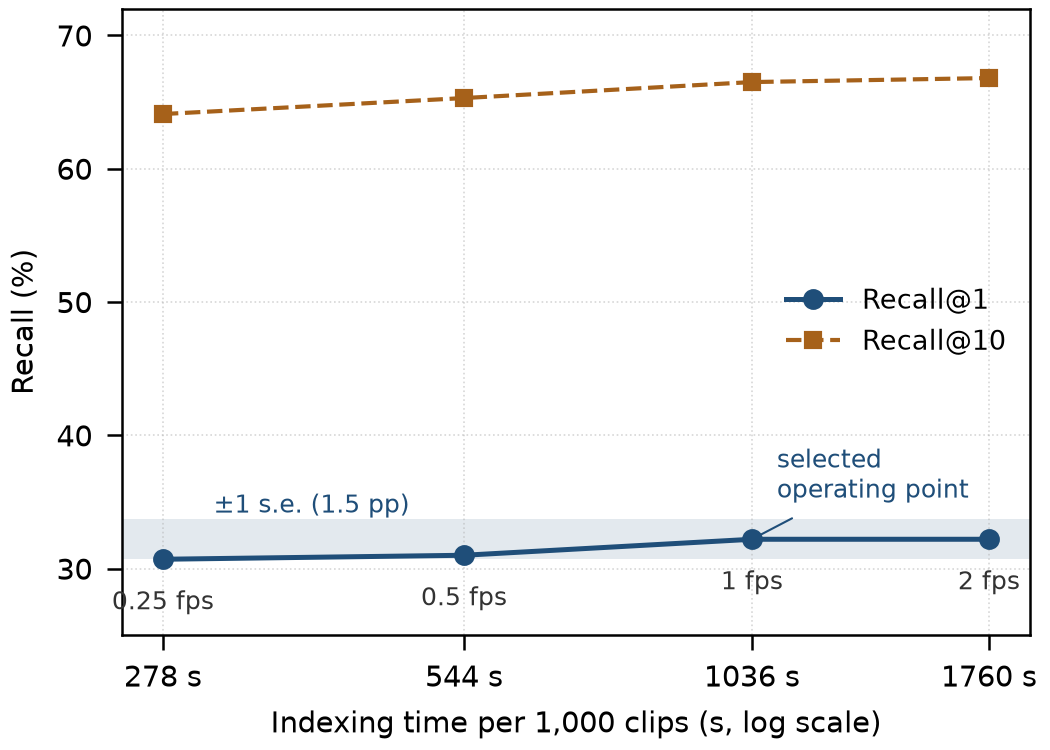
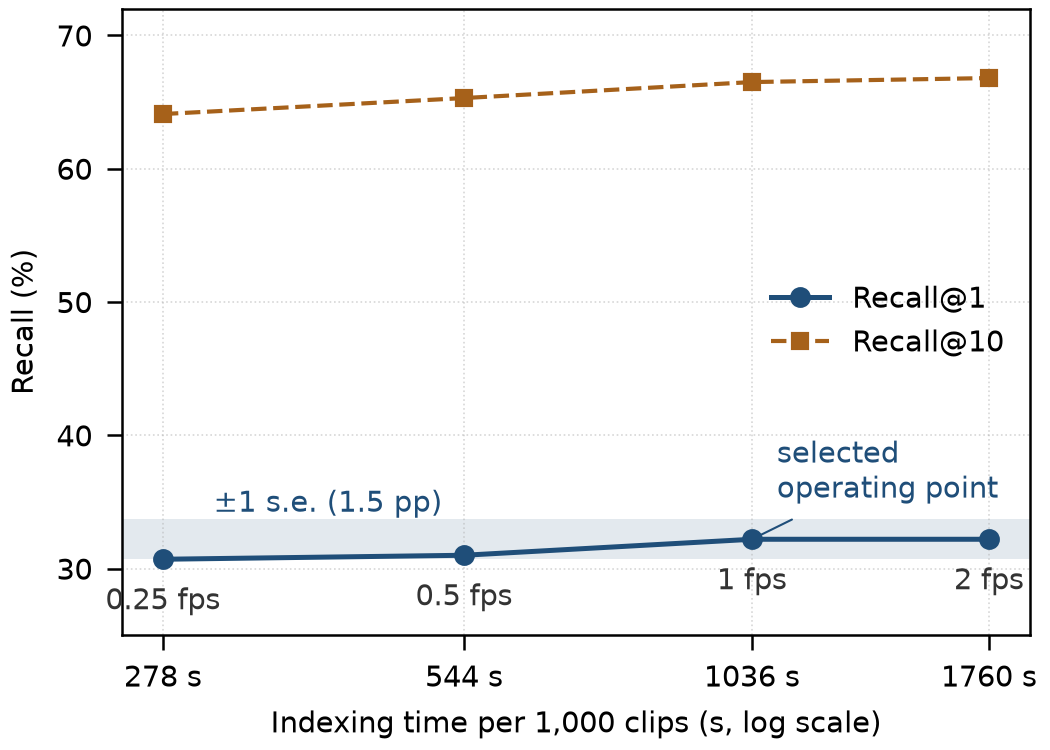
Add files via upload

diff --git a/report/main.tex b/report/main.tex
@@ -17,9 +17,8 @@
 
 \title{How Cheap Can Video Retrieval Be?\\A Zero-Shot, CPU-Only Cost--Accuracy Study}
 
-\author{\IEEEauthorblockN{Chengxuan Xie}
-\IEEEauthorblockA{School of Computer Science\\
-Nanchang University\\
+\author{\IEEEauthorblockN{Chengxuan Xie}\\[2pt]
+\IEEEauthorblockA{Nanchang University\\
 Nanchang, China\\
 \texttt{chengxuan\_xie@email.ncu.edu.cn}}}
 
@@ -156,34 +155,33 @@ produced it.
 \centering
 \resizebox{\columnwidth}{!}{%
 \begin{tikzpicture}[
-  font=\footnotesize,
+  font=\small,
   box/.style={draw, rounded corners=2pt, align=center, minimum height=9mm,
-              inner sep=2pt, text width=20mm, fill=black!4},
+              inner sep=2pt, text width=16mm, fill=black!4},
   net/.style={box, fill=black!16},
   arr/.style={-{Latex[length=2mm,width=1.5mm]}, thick},
-  lab/.style={font=\tiny, text=black!65, align=center}
+  lab/.style={font=\footnotesize, text=black!70, align=center}
 ]
 % ---- offline: indexing ----
 \node (v) [box] {Video\\clip};
-\node (s) [box, right=6mm of v] {Sample\\1\,fps};
-\node (e) [net, right=6mm of s] {ViT-B/32\\frozen};
-\node (m) [box, right=6mm of e] {Matrix\\$N\!\times\!512$};
-\node [lab, above=1.2mm of s] {1 of 30 frames};
-\node [lab, above=1.2mm of e] {40\,ms/frame};
-\node [lab, above=1.2mm of m] {7.4\,MB per hour};
+\node (s) [box, right=3mm of v] {Sample\\1\,fps};
+\node (e) [net, right=3mm of s] {ViT-B/32\\frozen};
+\node (m) [box, right=3mm of e] {Matrix\\$N\!\times\!512$};
+\node [lab, above=1mm of s] {1 of 30 frames};
+\node [lab, above=1mm of e] {40\,ms/frame};
+\node [lab, above=1mm of m] {7.4\,MB per hour};
 \draw [arr] (v) -- (s);
 \draw [arr] (s) -- (e);
 \draw [arr] (e) -- (m);
 % ---- online: one query ----
-\node (q) [box, below=15mm of v] {Text\\query};
-\node (t) [net, right=6mm of q] {Text\\tower};
-\node (c) [box, below=15mm of e, xshift=13mm, text width=45mm]
-      {cosine, then max over frames\\
-       $\rightarrow$ top-$K$ clips};
+\node (q) [box, below=14mm of v] {Text\\query};
+\node (t) [net, right=3mm of q] {Text\\tower};
+\node (c) [box, right=3mm of t, text width=40mm]
+      {cosine similarity,\\ then max $\rightarrow$ top-$K$};
 \node [lab, below=1mm of t] {60--100\,ms};
 \draw [arr] (q) -- (t);
-\draw [arr] (t) -- (c.west);
-\draw [arr] (m.south) -- (c.north -| m.south);
+\draw [arr] (t) -- (c);
+\draw [arr] (m.south) -- (m.south |- c.north);
 \end{tikzpicture}}
 \caption{The pipeline. Only the two shaded boxes run a neural network, and both are used
 frozen: no training and no fine-tuning. Offline, each clip is decoded at 1\,fps and every
@@ -287,7 +285,7 @@ points.
 \caption{Cost per hour of video for three sampling rates. The 30\,fps row is projected from the
 frame count; the other two are measured.}
 \label{tab:perhour}
-\begin{tabular}{@{}lccc@{}}
+\begin{tabular*}{\columnwidth}{@{\extracolsep{\fill}}lccc@{}}
 \toprule
 Configuration & Frames & Indexing time & Index size \\
 \midrule
@@ -295,7 +293,7 @@ Configuration & Frames & Indexing time & Index size \\
 1\,fps (this work)       & 3{,}600   & 3.9--5.0\,min & 7.4\,MB \\
 0.25\,fps                & 900       & 1.0--1.3\,min & 1.8\,MB \\
 \bottomrule
-\end{tabular}
+\end{tabular*}
 \end{table}
 
 \subsection{Boundary of Validity}
@@ -365,7 +363,7 @@ indexing cost.
 \caption{MSR-VTT test 1k, 1\,fps, max aggregation. Random baseline is $K/N$ with $N=1{,}000$
 clips and one correct answer per query.}
 \label{tab:main}
-\begin{tabular}{@{}lccc@{}}
+\begin{tabular*}{\columnwidth}{@{\extracolsep{\fill}}lccc@{}}
 \toprule
 Metric & This work & Random & Gap \\
 \midrule
@@ -373,7 +371,7 @@ Recall@1  & 32.2\% & 0.1\% & 32.1\,pp \\
 Recall@5  & 55.6\% & 0.5\% & 55.1\,pp \\
 Recall@10 & 66.5\% & 1.0\% & 65.5\,pp \\
 \bottomrule
-\end{tabular}
+\end{tabular*}
 \end{table}
 
 Four independent checks support the implementation. The frame count per clip is 16.0, matching
@@ -404,7 +402,7 @@ within one standard error. A tighter budget can use 0.25\,fps, which is 3.7$\tim
 \caption{Sampling-rate ablation on MSR-VTT ($n=1{,}000$ queries). The standard error of
 Recall@1 is $\approx$1.5\,pp, so adjacent rows are not distinguishable.}
 \label{tab:fps}
-\begin{tabular}{@{}lcccccc@{}}
+\begin{tabular*}{\columnwidth}{@{\extracolsep{\fill}}lcccccc@{}}
 \toprule
 fps & Frames & Build (s) & Index (MB) & R@1 & R@5 & R@10 \\
 \midrule
@@ -413,7 +411,7 @@ fps & Frames & Build (s) & Index (MB) & R@1 & R@5 & R@10 \\
 0.5  &  8{,}285 &   544.1 & 16.97 & 31.0 & 56.4 & 65.3 \\
 0.25 &  4{,}344 &   277.5 &  8.90 & 30.7 & 55.0 & 64.1 \\
 \bottomrule
-\end{tabular}
+\end{tabular*}
 \end{table}
 
 \begin{figure}[t]
@@ -507,3 +505,4 @@ frames, where CPU-only search ceases to be appropriate.
 \bibliography{refs}
 
 \end{document}
+

diff --git a/code/make_figure.py b/code/make_figure.py
@@ -1,4 +1,4 @@
-"""图 2：成本-精度曲线（报告里最重要的一张图）。
+"""图 2：成本-精度曲线（报告里最重要的一张图）。
 
 数据只从 results/results.csv 读，不手填任何数字。
 
@@ -71,7 +71,7 @@ def main():
     ax.axhspan(base - SE_PP, base + SE_PP, color="#1f4e79", alpha=0.12,
                lw=0, zorder=1)
     ax.text(x[0] * 1.12, base + SE_PP + 0.5, r"$\pm$1 s.e. (1.5 pp)",
-            fontsize=6, color="#1f4e79")
+            fontsize=7, color="#1f4e79")
 
     # 参考指标 R@10
     ax.plot(x, [r["r10"] for r in rows], "s--", color="#a6611a", lw=1.0,
@@ -81,7 +81,7 @@ def main():
     for r in rows:
         ax.annotate(f"{r['fps']:g} fps", (r["sec"], r["r1"]),
                     textcoords="offset points", xytext=(0, -12),
-                    ha="center", fontsize=6, color="#333333")
+                    ha="center", fontsize=7, color="#333333")
 
     ax.set_xscale("log")
     ax.set_xlabel("Indexing time per 1,000 clips (s, log scale)")
@@ -93,14 +93,14 @@ def main():
     ax.xaxis.set_minor_formatter(NullFormatter())
     ax.xaxis.set_minor_locator(NullLocator())
     ax.grid(True, which="major", ls=":", lw=0.4, alpha=0.5)
-    ax.legend(frameon=False, loc="center right", fontsize=6.5)
+    ax.legend(frameon=False, loc="center right", fontsize=7)
 
     # 标出拐点
     knee = next((r for r in rows if abs(r["fps"] - 1.0) < 1e-9), None)
     if knee:
         ax.annotate("selected\noperating point", (knee["sec"], knee["r1"]),
                     textcoords="offset points", xytext=(6, 10),
-                    fontsize=6, color="#1f4e79",
+                    fontsize=7, color="#1f4e79",
                     arrowprops=dict(arrowstyle="-", lw=0.5, color="#1f4e79"))
 
     fig.tight_layout(pad=0.3)
